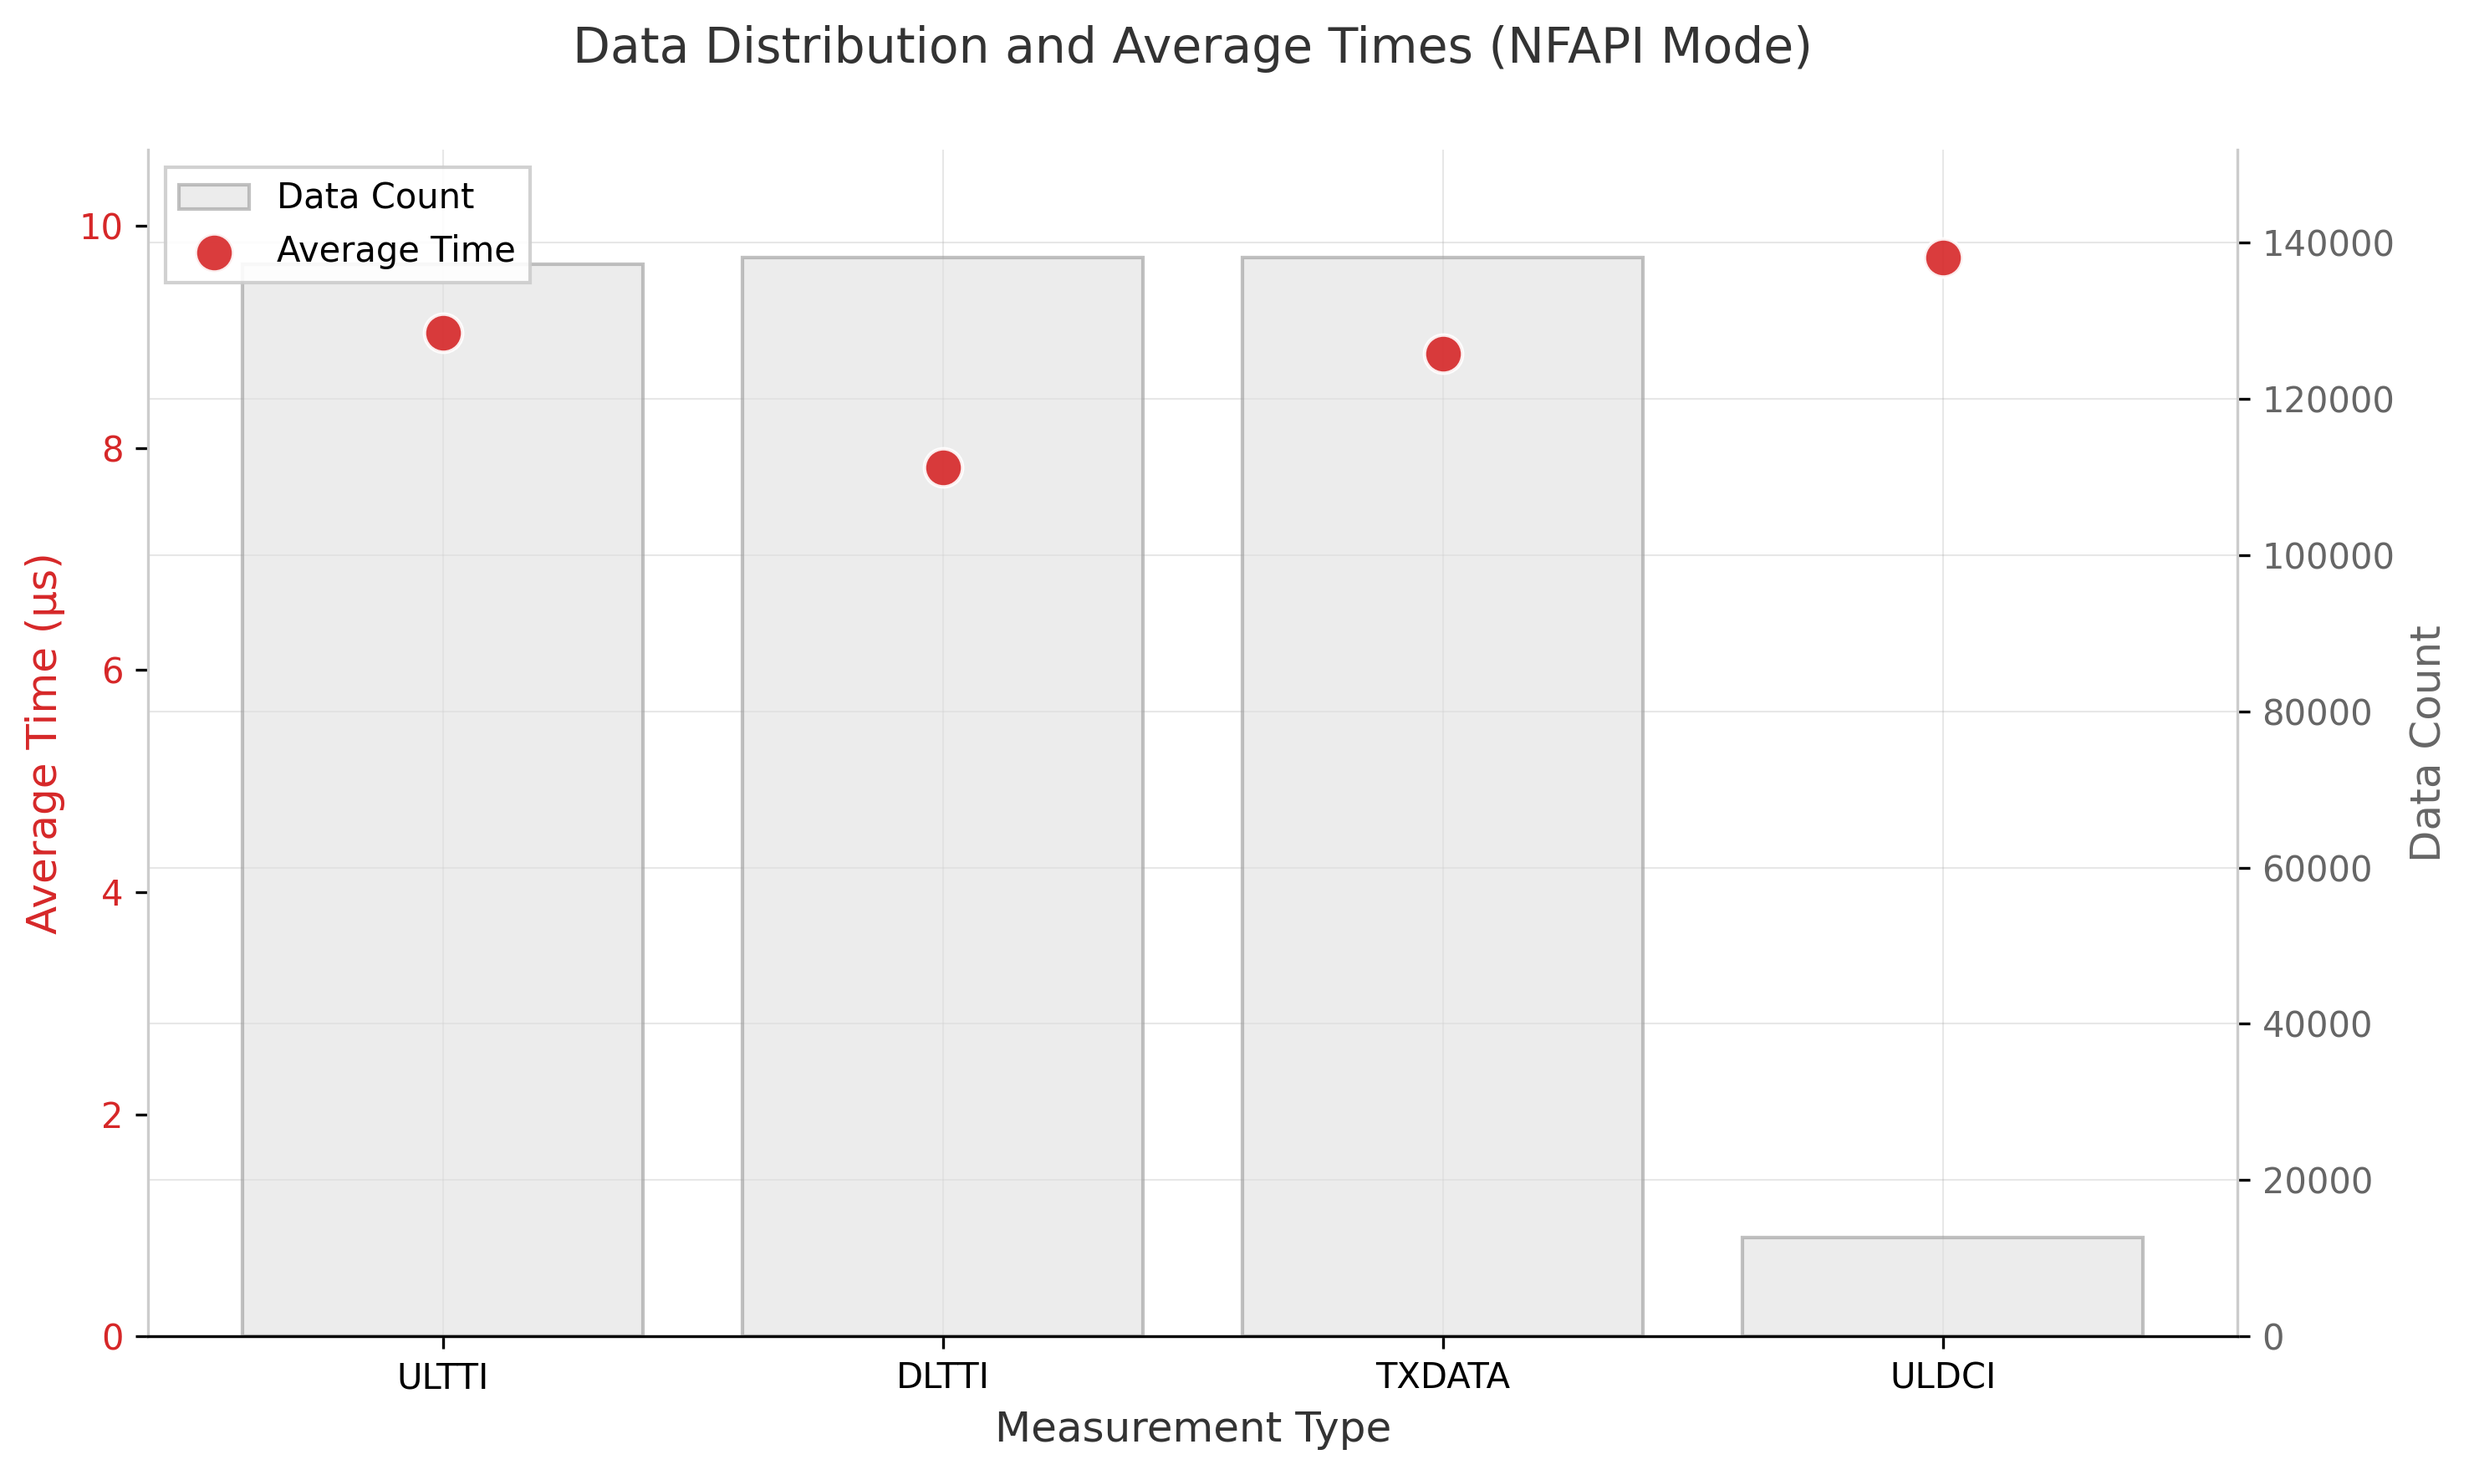
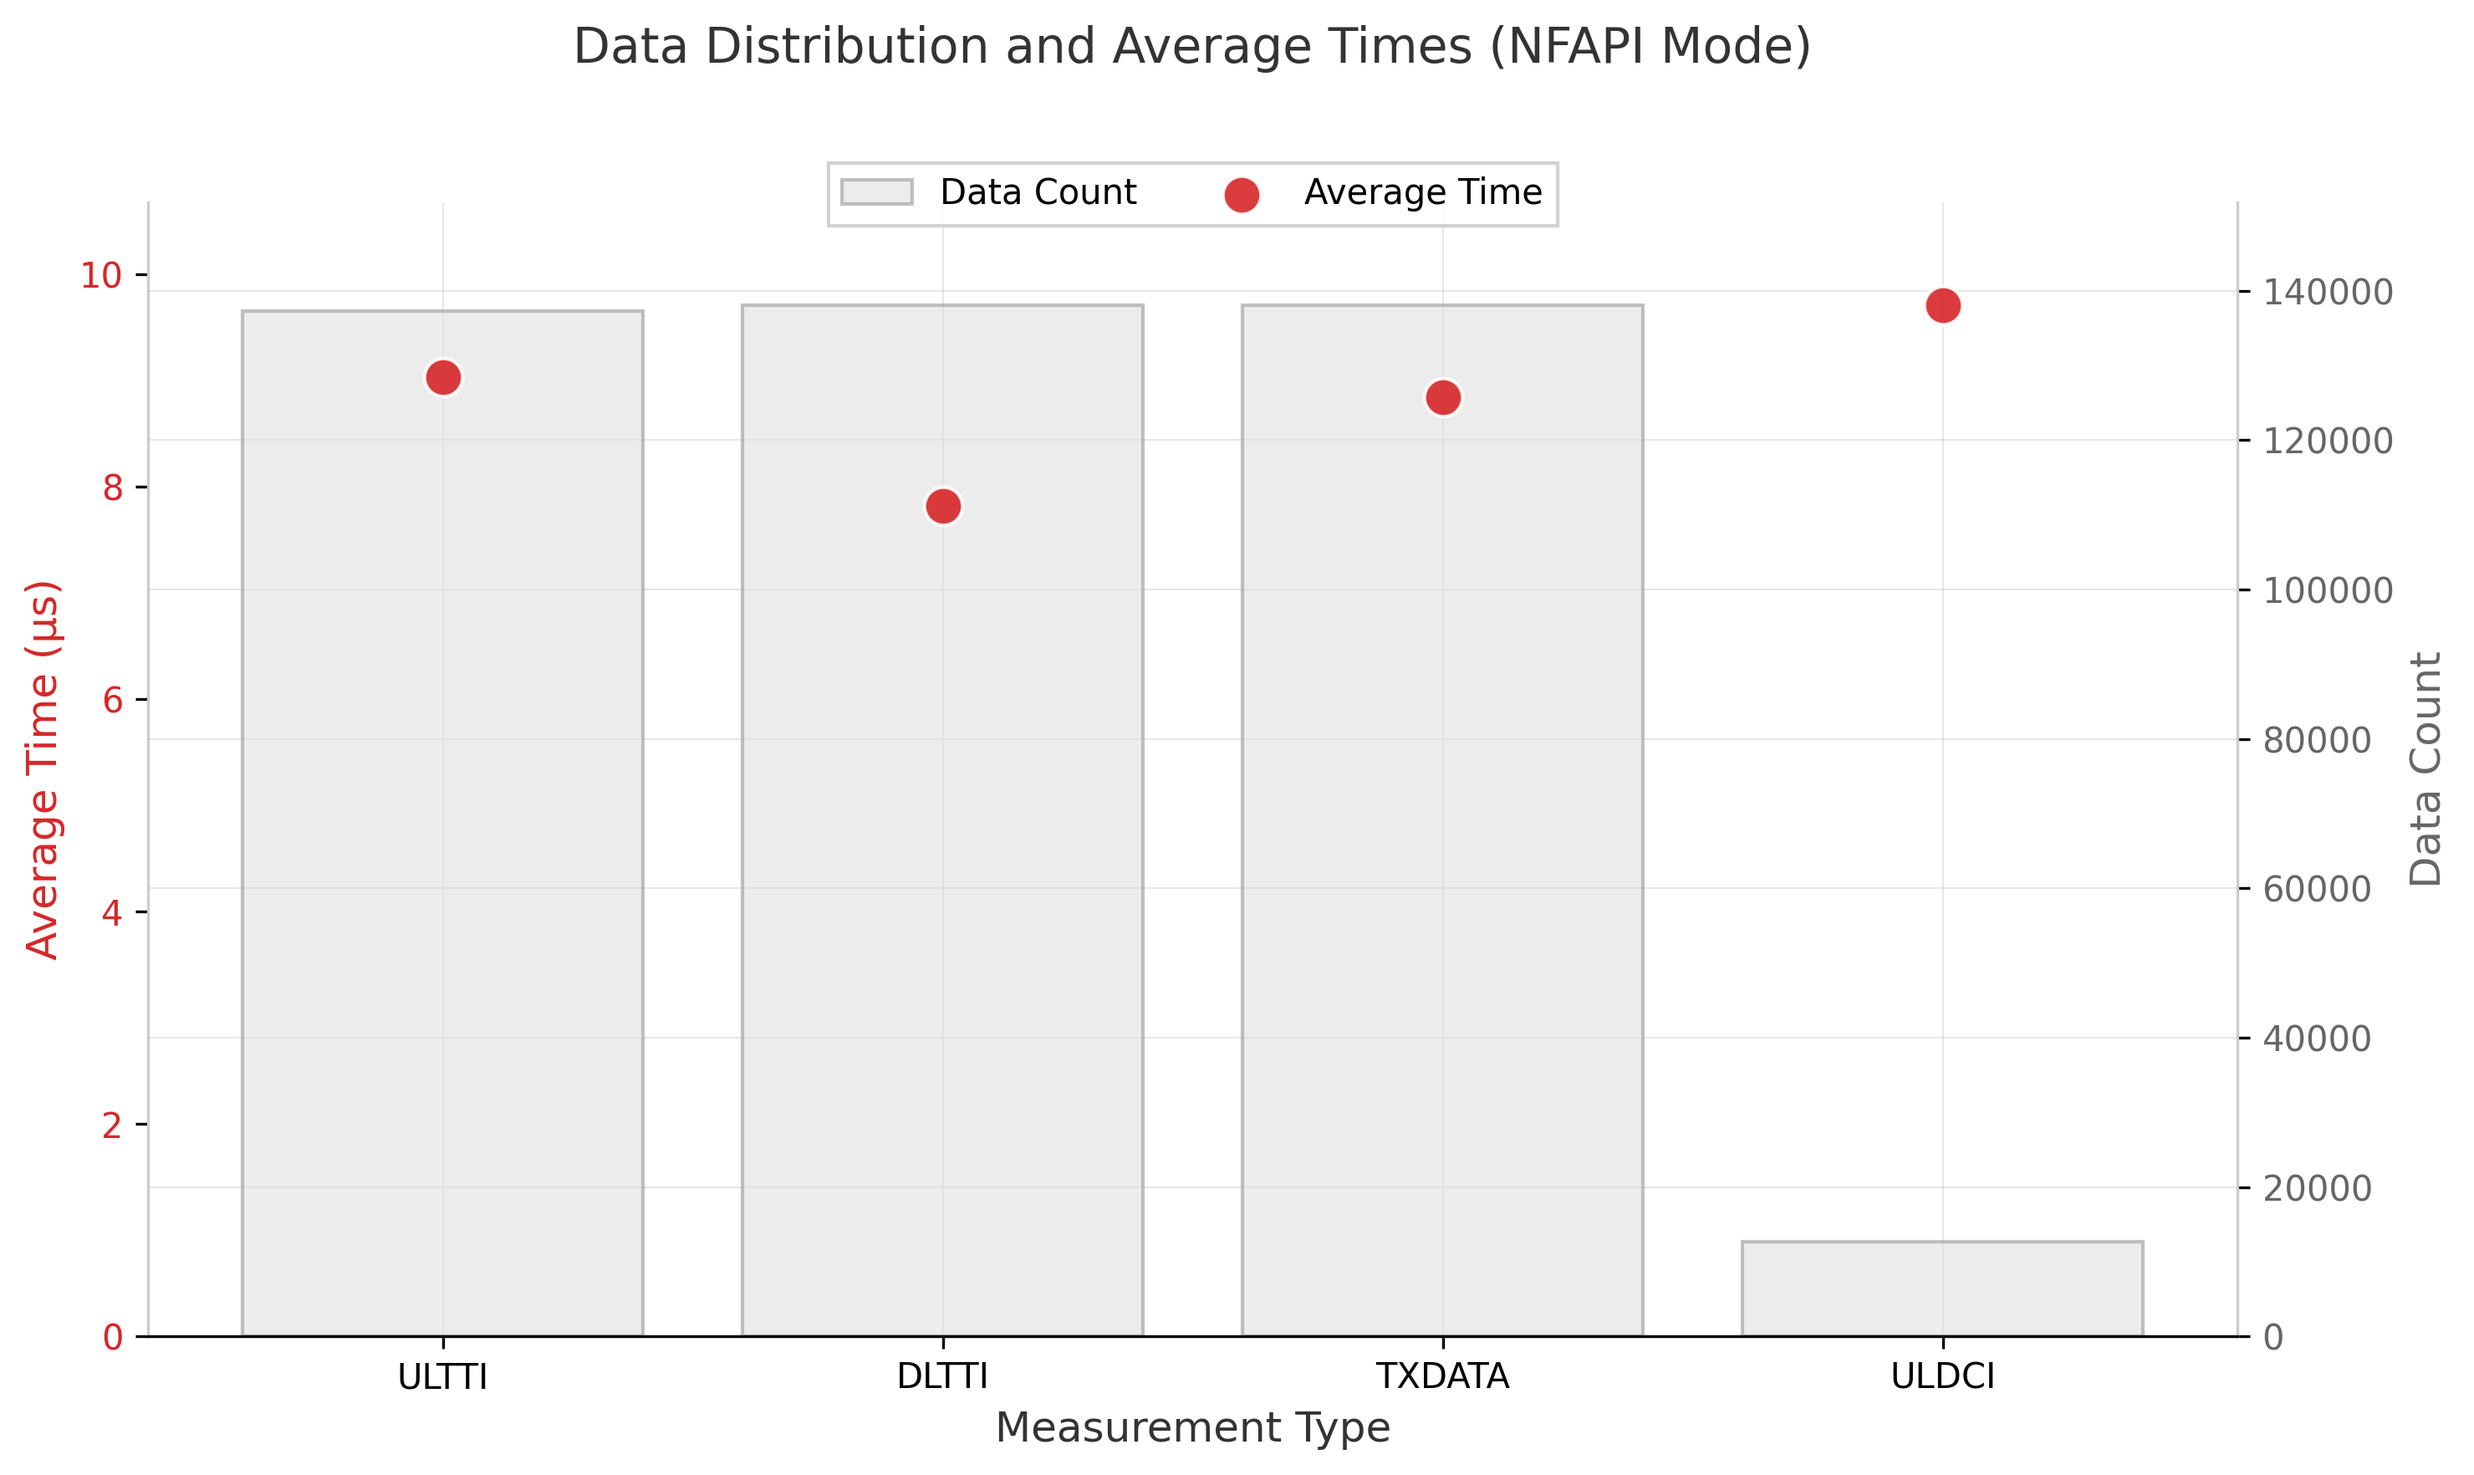
Update analysis report timestamp and enhance plotting functions for better visualization

diff --git a/Measure/analyze_measure_filtered.py b/Measure/analyze_measure_filtered.py
@@ -92,7 +92,7 @@ def plot_averages_with_count(pairs, averages, mode, output_path):
     
     # Title
     ax1.set_title(f'Data Distribution and Average Times ({mode} Mode)', 
-                  fontsize=14, pad=25, color='#333333', fontweight='normal')
+                  fontsize=14, pad=40, color='#333333', fontweight='normal')
     
     # Remove spines
     ax1.spines['top'].set_visible(False)
@@ -107,11 +107,11 @@ def plot_averages_with_count(pairs, averages, mode, output_path):
     ax1.grid(True, alpha=0.3, linestyle='-', linewidth=0.5)
     ax1.set_axisbelow(True)
     
-    # Legends - positioned to avoid overlap
+    # Legends - positioned above the plot area but below title
     lines1, labels1 = ax1.get_legend_handles_labels()
     lines2, labels2 = ax2.get_legend_handles_labels()
-    ax1.legend(lines1 + lines2, labels1 + labels2, loc='upper left', 
-               frameon=True, fancybox=False, shadow=False, framealpha=0.9)
+    ax1.legend(lines1 + lines2, labels1 + labels2, loc='upper center', 
+               bbox_to_anchor=(0.5, 1.05), ncol=2, frameon=True, fancybox=False, shadow=False, framealpha=0.9)
     
     plt.tight_layout()
     plt.savefig(output_path, dpi=300, bbox_inches='tight', facecolor='white')
@@ -275,7 +275,7 @@ def plot_combined_raw_data(pairs, timestamps, mode, output_path, log_file=None):
         return
     
     # Create box plots with all outliers shown
-    box_plot = ax.boxplot(box_data, labels=labels, patch_artist=True,
+    box_plot = ax.boxplot(box_data, tick_labels=labels, patch_artist=True,
                          showmeans=True, meanline=True, showfliers=True)
     
     # Customize box plot colors
@@ -362,6 +362,67 @@ def plot_combined_raw_data(pairs, timestamps, mode, output_path, log_file=None):
     plt.close()
 
 def main():
+    import sys
+    
+    # Check if input file is provided as command line argument
+    if len(sys.argv) > 1:
+        input_file = sys.argv[1]
+        if not os.path.exists(input_file):
+            print(f"Error: Input file not found: {input_file}")
+            return
+        
+        # Extract mode from filename
+        filename = os.path.basename(input_file)
+        if 'Monolithic' in filename or 'monolithic' in filename:
+            mode = 'Monolithic'
+        elif 'NFAPI' in filename or 'nfapi' in filename:
+            mode = 'NFAPI'
+        else:
+            mode = 'Unknown'
+        
+        print(f"Processing single file: {input_file} ({mode} mode)")
+        
+        # Create timestamped output directory
+        timestamp = datetime.now().strftime('%Y%m%d')
+        output_dir = os.path.join('/home/ming/E2E-network-measurement/Measure/Analysis', f'analysis-measure-{mode}-{timestamp}')
+        os.makedirs(output_dir, exist_ok=True)
+        
+        # Create log report file
+        log_report_path = os.path.join(output_dir, f'analysis_report_{timestamp}.log')
+        
+        with open(log_report_path, 'w') as log_report:
+            log_report.write(f"Analysis Report - {datetime.now().strftime('%Y-%m-%d %H:%M:%S')}\n")
+            log_report.write("=" * 60 + "\n")
+            log_report.write(f"\nProcessing {filename} ({mode} mode)\n")
+            log_report.write("-" * 40 + "\n")
+            
+            pairs, timestamps = process_log_file(input_file)
+            averages = calculate_averages(pairs)
+            
+            # Write averages to log
+            log_report.write(f"\nAverage time differences for {mode} mode (µs):\n")
+            for suffix, avg in averages.items():
+                log_report.write(f"  {suffix}: {avg:.2f} µs\n")
+            
+            # Generate charts
+            output_path_bar = os.path.join(output_dir, f'average_time_differences_{mode}_bar.png')
+            plot_averages_with_count(pairs, averages, mode, output_path_bar)
+            print(f"Bar chart saved as {output_path_bar}")
+            
+            output_path_raw = os.path.join(output_dir, f'raw_data_trends_{mode}.png')
+            plot_raw_data(pairs, timestamps, mode, output_path_raw, log_report)
+            print(f"Combined raw data chart saved as {output_path_raw}")
+            
+            output_path_combined = os.path.join(output_dir, f'raw_data_trends_{mode}_combined.png')
+            plot_combined_raw_data(pairs, timestamps, mode, output_path_combined, log_report)
+            print(f"Combined all-in-one raw data chart saved as {output_path_combined}")
+            
+            plot_individual_raw_data(pairs, timestamps, mode, output_dir)
+        
+        print(f"Analysis report saved as {log_report_path}")
+        return
+    
+    # Original code for processing all files in log directory
     log_dir = '/home/ming/E2E-network-measurement/Measure/log/'
     base_output_dir = '/home/ming/E2E-network-measurement/Measure/Analysis'
     
